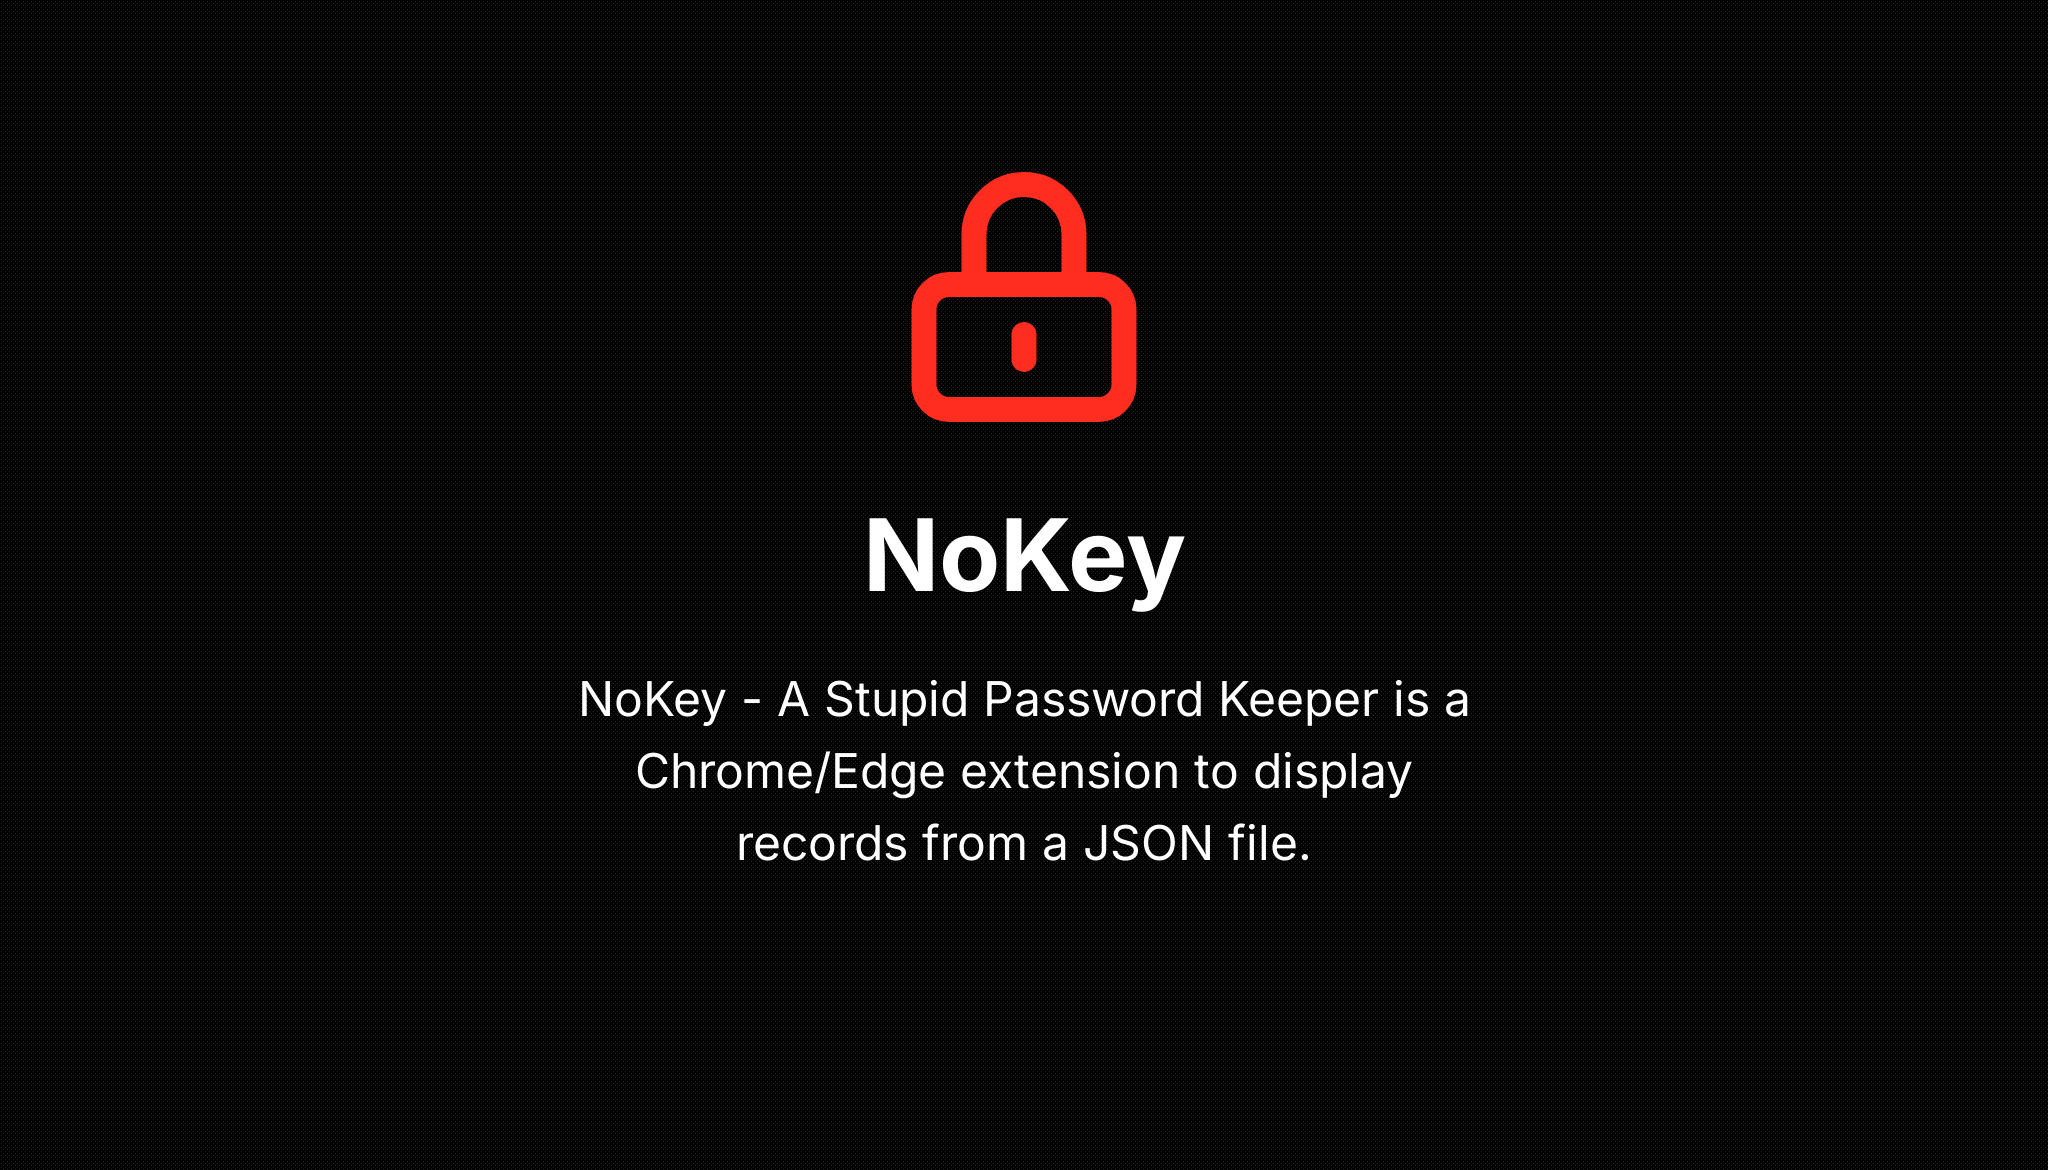
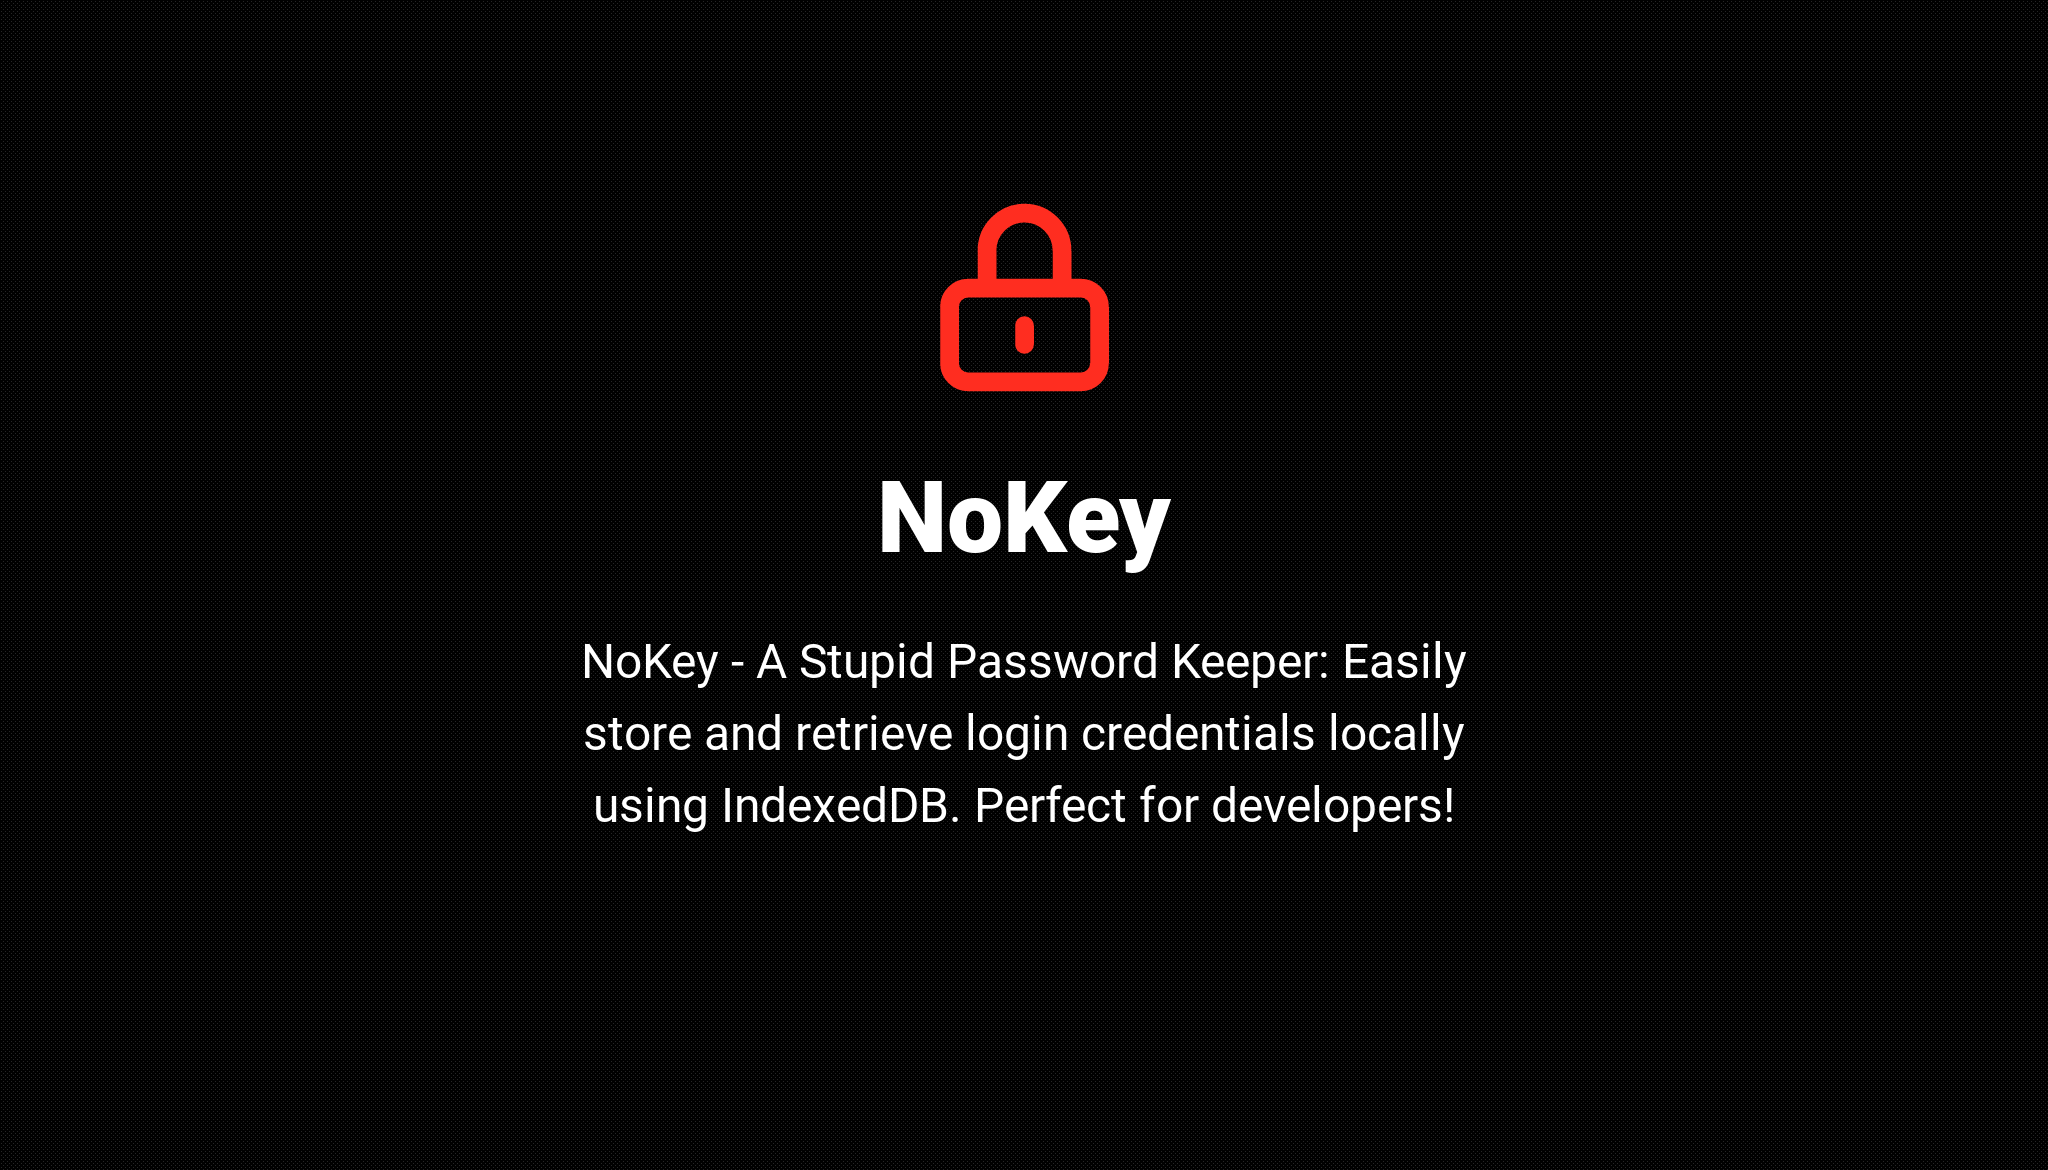
Updated nokey project

Changed region(s): [[0.2812, 0.5538, 0.7188, 0.7385], [0.4062, 0.4, 0.5938, 0.5231], [0.4375, 0.1538, 0.5625, 0.3692]]

diff --git a/src/content/projects/project-nokey/index.md b/src/content/projects/project-nokey/index.md
@@ -8,32 +8,56 @@ repoURL: "https://github.com/juashyam/nokey-password-keeper"
 
 ![NoKey](/nokey.png)
 
-NoKey - A Stupid Password Keeper is a Chrome/Edge extension to display records from a JSON file.
+NoKey - A Stupid Password Keeper is a lightweight Chrome/Edge extension designed to simplify your daily development workflow. It allows you to securely store and manage login credentials locally using the browser's IndexedDB.
 
-## ❗ Disclaimer
+With its simple interface, you can quickly add, retrieve, and copy usernames and passwords, eliminating the need to search through files or notes. NoKey is perfect for developers and tech professionals who need a no-fuss solution for managing admin accounts and other login information.
 
-It is highly influenced by my personal usage, not ready for production. Please feel free to use it at your discretion.
+All data is stored locally, ensuring privacy and quick access. Download NoKey today and streamline your workflow!
 
 ## 🚀 Installation
 
-Instead of installing the extension from the Store, you'll install it locally, so that you can possibly modify it and quickly test the changes.
+### Edge
 
-Clone this [repository](https://github.com/juashyam/nokey-password-keeper) and follow the instructions below for your respective browser.
+On the extension’s page, click the Get to install.
+
+https://microsoftedge.microsoft.com/addons/detail/nokey-a-stupid-password/cfmibhgbkfignakcnbdilfegilgolmed
+
+### Chrome
+
+It is not deployed to Chrome Extension Store yet. So, instead of installing the extension from the Store, we'll have to install it locally.
+
+Clone this [repository](https://github.com/juashyam/nokey-password-keeper) and follow the instructions below.
 
 [Installation in Chrome](https://developer.chrome.com/docs/extensions/get-started/tutorial/hello-world#load-unpacked)
 
-[Installation in Microsoft Edge](https://learn.microsoft.com/en-us/microsoft-edge/extensions-chromium/getting-started/part1-simple-extension#install-the-sample-locally)
-
 **Note:** Select the **src** directory which contains the extension's source files, such as manifest.json, and then click the Select Folder button.
 
-## 📄 Configuration
+## 🎯 Who Is NoKey For?
+NoKey is perfect for:
 
-Edit `src/data/password.json` file to add/update/delete accounts and reload the extension in browser.
+- Developers managing multiple admin accounts or testing environments.
+- Tech Professionals who need a secure and simple way to store and access login information.
+- Anyone tired of juggling passwords in unsecured files or notes.
 
-![NoKey Configuration](/nokey_configuration.png)
+## 🔒 Security First
+
+- **Local Storage:** Your data is stored locally and never transmitted over the internet.
+- **No External Servers:** NoKey doesn’t rely on cloud storage or third-party servers, ensuring your credentials remain private.
+- The security boundary imposed on IndexedDB prevents applications from accessing data with a different origin.
+
+## 🛠 How to Use
+
+- **Add Credentials:** Click the NoKey icon in your browser toolbar and use the "Add" button to store new login details.
+- **Retrieve Credentials:** View your saved credentials in a clean, organized list.
+- **Copy to Clipboard:** Click the copy icon next to any username or password to quickly paste it where needed.
 
 ## 🖥 Preview
-![NoKey](/nokey_preview.png)
+![NoKey Preview 1](/nokey_preview_1.png)
+![NoKey Preview 2](/nokey_preview_2.png)
+
+## 💬 Feedback Welcome
+
+We’d love to hear your thoughts! If you have any feedback, feature requests, or issues, please open an issue on our [Github repository](https://github.com/juashyam/nokey-password-keeper).
 
 ## 🏛 License
 
